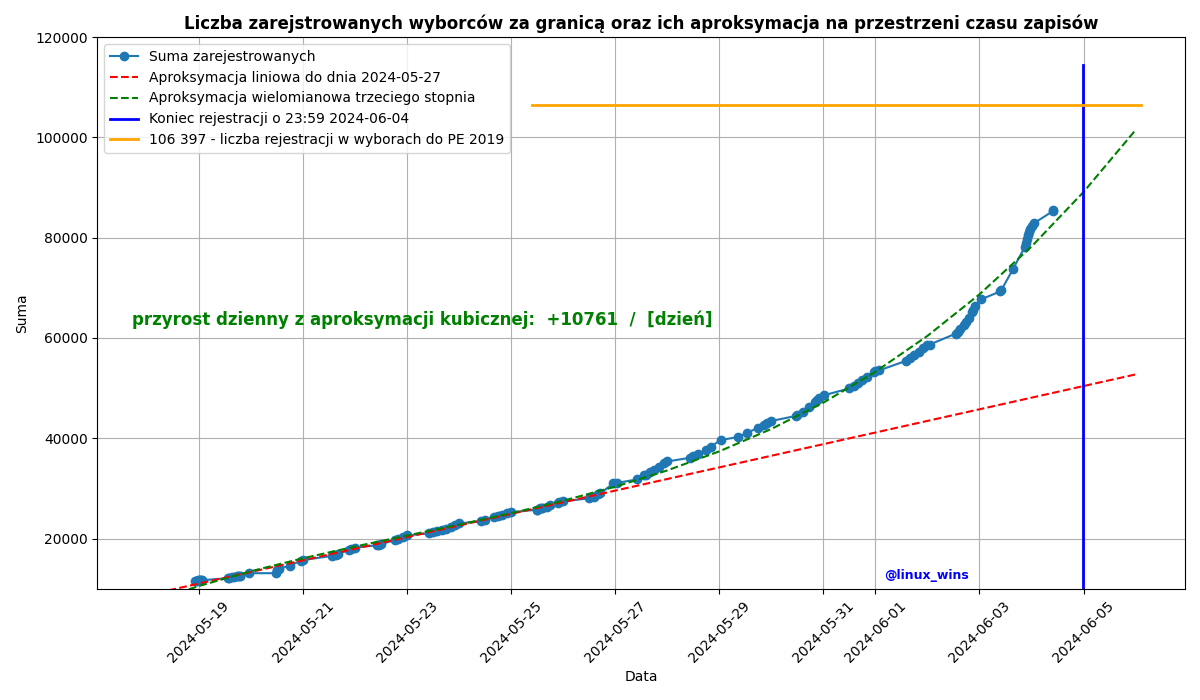
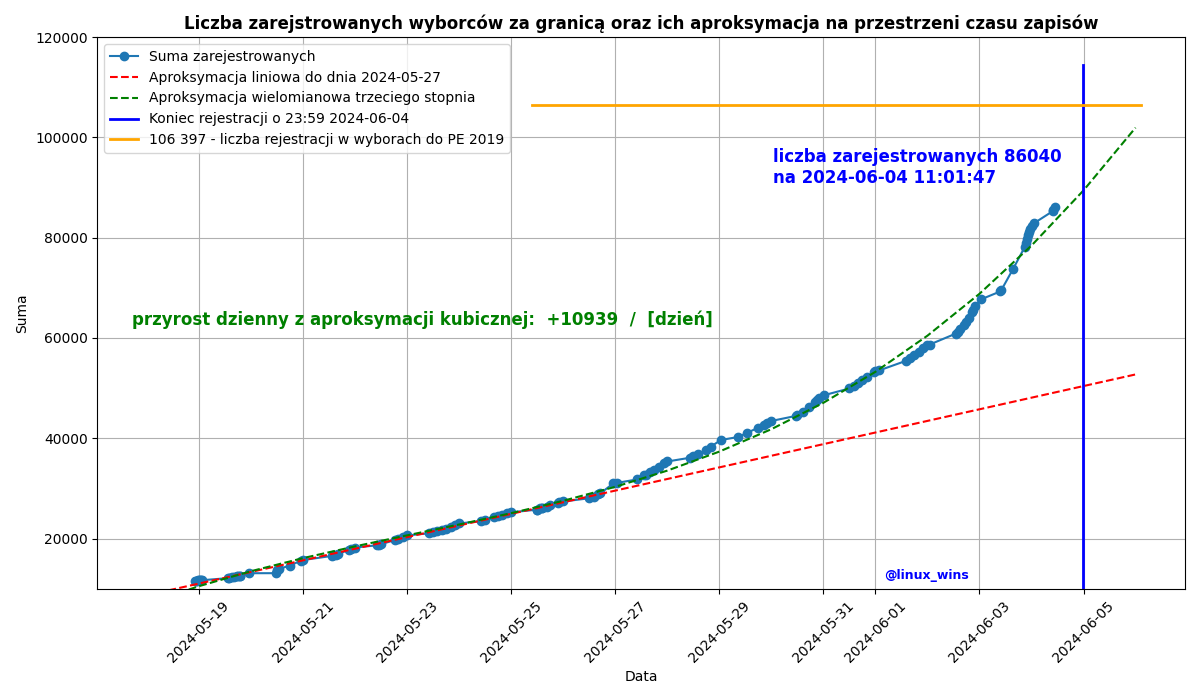
total number added

Changed region(s): [[0.6475, 0.21, 0.8942, 0.27], [0.4933, 0.45, 0.5858, 0.48]]

diff --git a/plot.py b/plot.py
@@ -89,6 +89,8 @@ plt.plot(extended_dates, extended_trendN, label='Aproksymacja wielomianowa trzec
 plt.axvline(datetime(2024, 6, 4, 23, 59), ymax=0.95, color='blue', linestyle='-', linewidth=2, label='Koniec rejestracji o 23:59 2024-06-04')
 plt.axhline(y=106397, xmin=0.4, xmax=0.96, color='orange', linestyle='-', linewidth=2, label='106 397 - liczba rejestracji w wyborach do PE 2019')
 
+plt.text(datetime(2024, 5, 30, 1), 95000, f'liczba zarejestrowanych {df["Suma"].max()}', fontsize=12, color='blue', fontweight='bold')
+plt.text(datetime(2024, 5, 30, 1), 91000, f'na {df["Date"].max()}', fontsize=12, color='blue', fontweight='bold')
 
 # Display the polinomial regression equation on the plot
 cslope = polyNdiff(df['Date_num'].max()) * 24*3600
